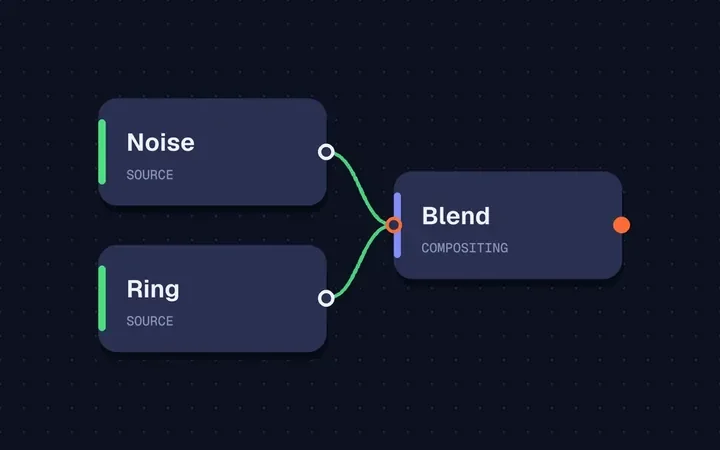
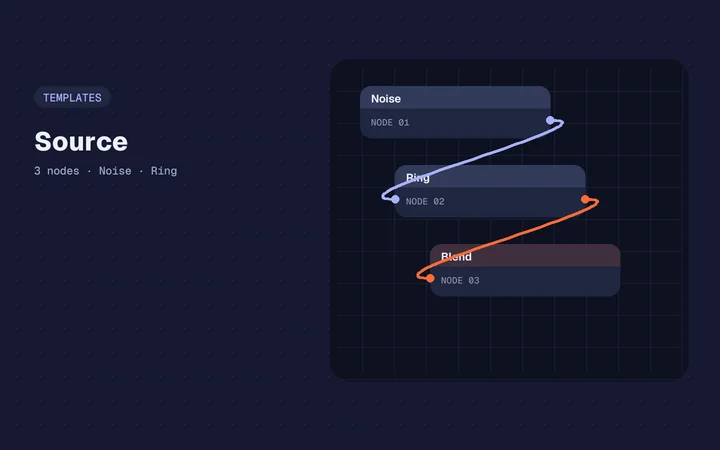
website: update remaining template nodegraph thumbnails to brand book v2.1

Changed region(s): [[0.4889, 0.1867, 0.8861, 0.6844], [0.0306, 0.1867, 0.4889, 0.4978], [0.1222, 0.5289, 0.4889, 0.8089]]

diff --git a/tools/website/gen_library_thumbs.py b/tools/website/gen_library_thumbs.py
@@ -82,7 +82,7 @@ class Rng:
 
 
 def is_rich_visual_template(item: dict) -> bool:
-    """For Templates, keep real rendered visuals and replace blank circles or audio/bare nodegraphs."""
+    """For Templates, keep real rendered visuals and replace blank circles or bare Midnight nodegraphs."""
     nodes = item.get("nodes") or []
     if isinstance(nodes, list) and "Audio Out" in nodes and not any(
         k in " ".join(nodes) for k in ("Shader", "Field Pixel", "Render 3D", "Sketch")
@@ -92,11 +92,14 @@ def is_rich_visual_template(item: dict) -> bool:
     if not item.get("preview") or not os.path.exists(src):
         return False
     with Image.open(src) as im:
-        arr = np.asarray(im.convert("RGB"))
+        arr = np.asarray(im.convert("RGB")).astype(int)
     black_frac = float(np.mean(arr.max(axis=2) < 10))
-    mid_dist = np.abs(arr.astype(int) - np.array(GROUND)).sum(axis=2)
-    mid_frac = float(np.mean(mid_dist < 25))
-    return black_frac <= 0.70 and mid_frac <= 0.55
+    # Detect Midnight-ground nodegraph diagrams (#0D1020, #151930, #20263F)
+    d_ground = np.abs(arr - np.array(GROUND)).sum(axis=2) < 28
+    d_deep = np.abs(arr - np.array(DEEP)).sum(axis=2) < 28
+    d_surf = np.abs(arr - np.array(SURFACE1)).sum(axis=2) < 28
+    nodegraph_frac = float(np.mean(d_ground | d_deep | d_surf))
+    return black_frac <= 0.70 and nodegraph_frac <= 0.55
 
 
 def art_webp(item: dict) -> bytes | None:
